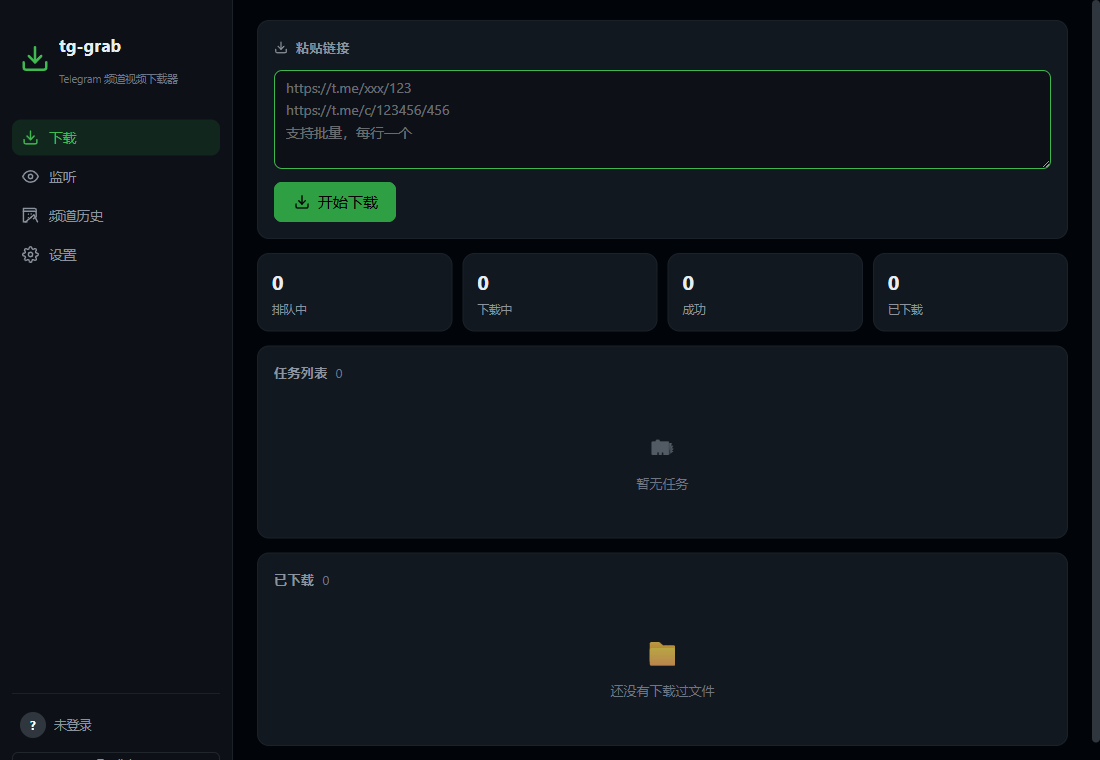
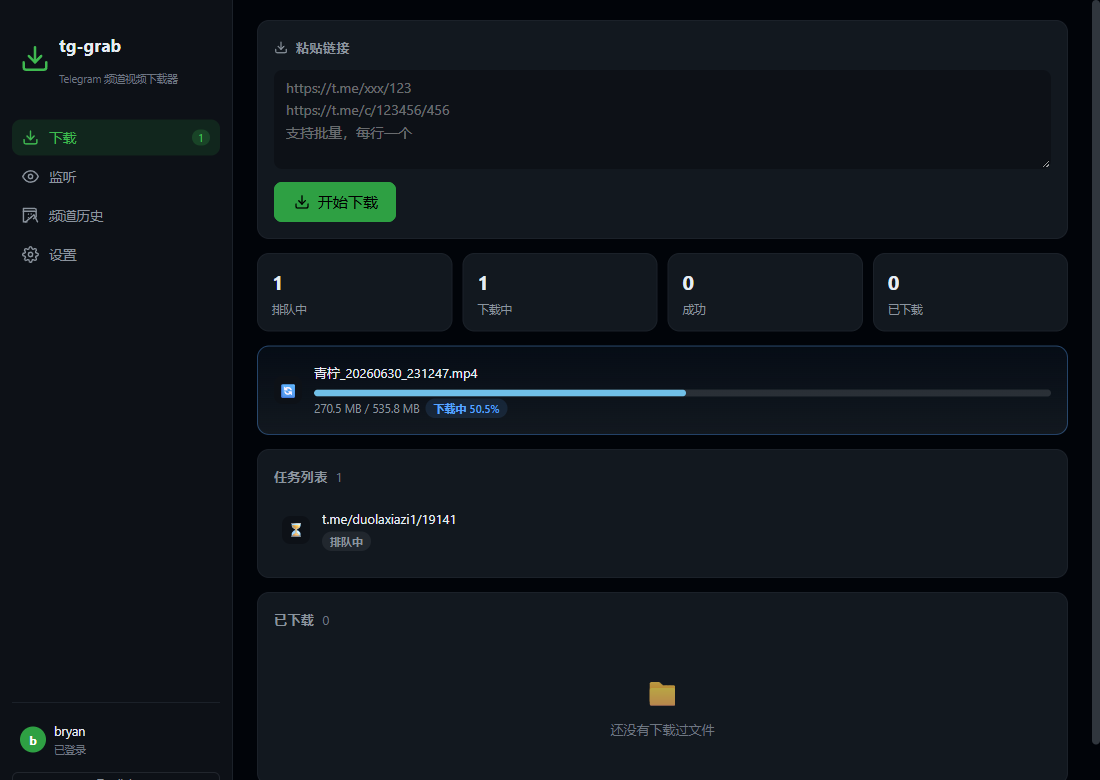
docs: add real UI screenshot to README

diff --git a/README.md b/README.md
@@ -4,7 +4,7 @@
 
 A native desktop app to download videos from Telegram channels and groups — built with **Rust + Tauri v2 + Vue 3**.
 
-<!-- screenshot: add docs/screenshot.png after first release -->
+![screenshot](docs/ui-download.png)
 
 ## Features
 

diff --git a/README.zh-CN.md b/README.zh-CN.md
@@ -4,7 +4,7 @@
 
 Telegram 频道/群组视频下载器 —— 原生桌面应用，基于 **Rust + Tauri v2 + Vue 3**。
 
-<!-- 截图：首次发布后添加 docs/screenshot.png -->
+![截图](docs/ui-download.png)
 
 ## 功能
 
